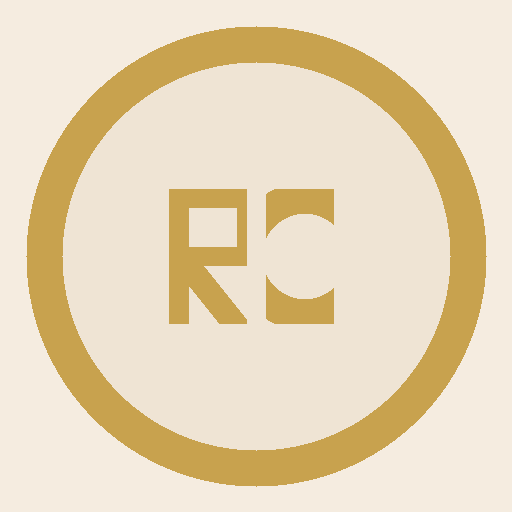
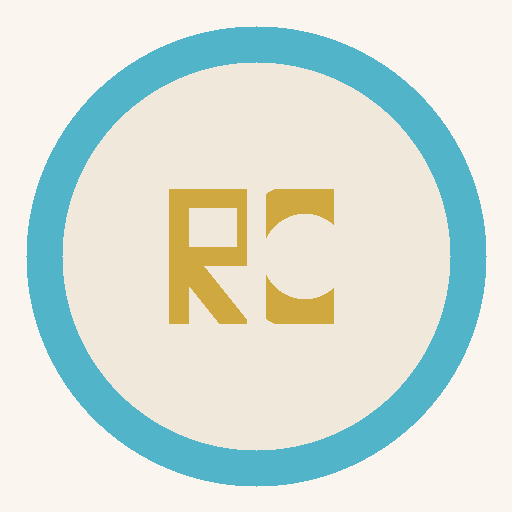
Retheme to Admont Abbey palette — sky blue, teal, gold, warm marble

Changed region(s): [[0.0312, 0.0312, 0.9688, 0.9688]]

diff --git a/index.html b/index.html
@@ -3,7 +3,7 @@
 <head>
 <meta charset="UTF-8">
 <meta name="viewport" content="width=device-width, initial-scale=1.0, maximum-scale=1.0, user-scalable=no">
-<meta name="theme-color" content="#f5ece0">
+<meta name="theme-color" content="#faf5ee">
 <meta name="apple-mobile-web-app-capable" content="yes">
 <meta name="apple-mobile-web-app-status-bar-style" content="default">
 <meta name="apple-mobile-web-app-title" content="Chariots">
@@ -19,39 +19,43 @@ body{
   font-family:'Inter',sans-serif;
   min-height:100vh;min-height:100dvh;
   overflow-x:hidden;
-  background:#f5ece0;
-  color:#3a2e20;
+  background:#faf5ee;
+  color:#3a3028;
 }
 input,button,textarea,select{font-family:inherit;font-size:inherit;border:none;outline:none;background:none}
 button{cursor:pointer}
 a{text-decoration:none;color:inherit}
 
-/* ===== CSS VARIABLES ===== */
+/* ===== CSS VARIABLES — Admont Abbey Palette ===== */
 :root{
-  --bg:#f5ece0;
-  --bg-warm:#efe4d4;
-  --card:rgba(255,255,255,0.88);
-  --card-border:rgba(180,150,100,0.15);
-  --card-shadow:0 2px 12px rgba(120,90,50,0.08);
-  --input-bg:rgba(255,255,255,0.92);
-  --text:#3a2e20;
-  --text-dim:#8a7a64;
-  --text-bright:#1a1208;
-  --gold:#c8a24e;
-  --gold-soft:rgba(200,162,78,0.15);
-  --gold-glow:rgba(200,162,78,0.25);
+  --bg:#faf5ee;
+  --bg-warm:#f0e8da;
+  --card:rgba(255,253,248,0.92);
+  --card-border:rgba(180,160,120,0.14);
+  --card-shadow:0 2px 14px rgba(100,80,50,0.07);
+  --input-bg:rgba(255,255,252,0.95);
+  --text:#3a3028;
+  --text-dim:#8a7e6a;
+  --text-bright:#1a1610;
+  --gold:#d0a840;
+  --gold-soft:rgba(208,168,64,0.14);
+  --gold-glow:rgba(208,168,64,0.25);
+  --sky:#52b4c8;
+  --sky-soft:rgba(82,180,200,0.12);
+  --sky-deep:#3a98b0;
+  --teal:#4a8a7a;
+  --teal-soft:rgba(74,138,122,0.12);
+  --rose:#c89090;
+  --rose-soft:rgba(200,144,144,0.10);
   --terracotta:#c47040;
-  --terracotta-soft:rgba(196,112,64,0.12);
-  --green:#4a8a52;
-  --green-soft:rgba(74,138,82,0.12);
-  --red:#b84a3a;
-  --red-soft:rgba(184,74,58,0.10);
+  --terracotta-soft:rgba(196,112,64,0.10);
+  --marble:#e8ddd0;
   --radius:14px;
   --radius-sm:8px;
-  --nav-bg:rgba(245,236,224,0.95);
-  --nav-border:rgba(180,150,100,0.12);
-  --modal-bg:rgba(245,236,224,0.97);
-  --toast-bg:rgba(255,255,255,0.95);
+  --nav-bg:rgba(250,245,238,0.96);
+  --nav-border:rgba(180,160,120,0.10);
+  --modal-bg:rgba(250,245,238,0.97);
+  --toast-bg:rgba(255,253,248,0.96);
 }
 
 /* ===== LAYOUT ===== */
@@ -71,7 +75,7 @@ a{text-decoration:none;color:inherit}
   font-family:'Playfair Display',serif;font-size:1.5rem;font-weight:700;
   color:var(--text-bright);letter-spacing:-0.5px;
 }
-.app-title span{color:var(--gold)}
+.app-title span{color:var(--sky)}
 .header-month{
   font-size:.78rem;color:var(--text-dim);margin-top:2px;
 }
@@ -80,11 +84,11 @@ a{text-decoration:none;color:inherit}
 }
 .month-btn{
   width:30px;height:30px;border-radius:50%;
-  background:var(--gold-soft);color:var(--gold);
+  background:var(--sky-soft);color:var(--sky);
   display:flex;align-items:center;justify-content:center;
   font-size:.85rem;font-weight:700;
 }
-.month-btn:active{background:var(--gold-glow)}
+.month-btn:active{background:rgba(82,180,200,0.25)}
 
 /* ===== SUMMARY CARDS ===== */
 .summary{
@@ -134,7 +138,7 @@ a{text-decoration:none;color:inherit}
   padding:6px 4px;border-radius:6px;color:var(--text-dim);
   transition:all .2s;
 }
-.avg-tab.active{background:var(--card);color:var(--gold);box-shadow:0 1px 4px rgba(0,0,0,0.06)}
+.avg-tab.active{background:var(--card);color:var(--sky-deep);box-shadow:0 1px 4px rgba(0,0,0,0.06)}
 .avg-grid{display:grid;grid-template-columns:1fr 1fr;gap:8px}
 .avg-card{
   background:var(--card);border:1px solid var(--card-border);
@@ -169,7 +173,7 @@ a{text-decoration:none;color:inherit}
   white-space:nowrap;background:var(--bg-warm);color:var(--text-dim);
   border:1px solid transparent;transition:all .2s;flex-shrink:0;
 }
-.tx-filter.active{background:var(--gold-soft);color:var(--gold);border-color:var(--gold-glow)}
+.tx-filter.active{background:var(--sky-soft);color:var(--sky-deep);border-color:rgba(82,180,200,0.3)}
 .tx-date-group{margin-bottom:12px}
 .tx-date-label{font-size:.65rem;font-weight:600;color:var(--text-dim);text-transform:uppercase;letter-spacing:.5px;margin-bottom:6px;padding-left:2px}
 .tx-item{
@@ -207,13 +211,13 @@ a{text-decoration:none;color:inherit}
   width:36px;height:20px;border-radius:10px;
   background:var(--bg-warm);position:relative;transition:background .2s;flex-shrink:0;
 }
-.rec-toggle.on{background:var(--green-soft);border:1px solid var(--green)}
+.rec-toggle.on{background:var(--teal-soft);border:1px solid var(--teal)}
 .rec-toggle::after{
   content:'';position:absolute;top:2px;left:2px;
   width:16px;height:16px;border-radius:50%;
   background:var(--text-dim);transition:all .2s;
 }
-.rec-toggle.on::after{left:18px;background:var(--green)}
+.rec-toggle.on::after{left:18px;background:var(--teal)}
 .rec-del{font-size:.7rem;color:var(--red);padding:4px 8px;font-weight:600}
 
 /* ===== INSIGHTS TAB ===== */
@@ -225,8 +229,8 @@ a{text-decoration:none;color:inherit}
 .trend-bars{display:flex;align-items:flex-end;gap:4px;height:120px;padding-top:10px}
 .trend-bar-col{flex:1;display:flex;flex-direction:column;align-items:center;gap:2px}
 .trend-bar{width:100%;border-radius:3px 3px 0 0;min-height:2px;transition:height .4s}
-.trend-bar.income-bar{background:var(--gold)}
-.trend-bar.expense-bar{background:var(--terracotta)}
+.trend-bar.income-bar{background:var(--sky)}
+.trend-bar.expense-bar{background:var(--gold)}
 .trend-label{font-size:.55rem;color:var(--text-dim);font-weight:500}
 .top-cats{margin-bottom:16px}
 .top-cat-item{
@@ -244,8 +248,8 @@ a{text-decoration:none;color:inherit}
 .comp-row{display:flex;justify-content:space-between;align-items:center;padding:6px 0}
 .comp-label{font-size:.75rem;color:var(--text)}
 .comp-value{font-size:.75rem;font-weight:700}
-.comp-value.up{color:var(--terracotta)}
-.comp-value.down{color:var(--gold)}
+.comp-value.up{color:var(--rose)}
+.comp-value.down{color:var(--teal)}
 .comp-value.neutral{color:var(--text)}
 
 /* ===== SETTINGS ===== */
@@ -254,7 +258,7 @@ a{text-decoration:none;color:inherit}
   border-radius:var(--radius);padding:14px;box-shadow:var(--card-shadow);
   margin-bottom:12px;
 }
-.setting-title{font-size:.72rem;font-weight:700;color:var(--gold);text-transform:uppercase;letter-spacing:.6px;margin-bottom:10px}
+.setting-title{font-size:.72rem;font-weight:700;color:var(--sky-deep);text-transform:uppercase;letter-spacing:.6px;margin-bottom:10px}
 .setting-row{padding:8px 0;border-bottom:1px solid var(--card-border)}
 .setting-row:last-child{border-bottom:none}
 .setting-label{font-size:.78rem;font-weight:500;color:var(--text)}
@@ -269,8 +273,8 @@ a{text-decoration:none;color:inherit}
   padding:8px 16px;border-radius:var(--radius-sm);font-size:.75rem;
   font-weight:600;transition:all .15s;
 }
-.btn-gold{background:var(--gold);color:#fff}
-.btn-gold:active{background:#b0922a}
+.btn-gold{background:var(--sky);color:#fff}
+.btn-gold:active{background:var(--sky-deep)}
 .btn-outline{border:1px solid var(--card-border);color:var(--text)}
 .btn-danger{background:var(--red-soft);color:var(--red)}
 
@@ -289,17 +293,17 @@ a{text-decoration:none;color:inherit}
   font-size:.58rem;font-weight:600;color:var(--text-dim);
   padding:4px 12px;transition:color .2s;
 }
-.nav-item.active{color:var(--gold)}
+.nav-item.active{color:var(--sky)}
 .nav-icon{font-size:1.2rem}
 
 /* ===== FAB (floating add button) ===== */
 .fab{
   position:fixed;bottom:72px;right:20px;
   width:52px;height:52px;border-radius:50%;
-  background:linear-gradient(135deg,var(--gold),var(--terracotta));
+  background:linear-gradient(135deg,var(--sky),var(--teal));
   color:#fff;font-size:1.5rem;font-weight:300;
   display:flex;align-items:center;justify-content:center;
-  box-shadow:0 4px 16px rgba(200,162,78,0.35);
+  box-shadow:0 4px 16px rgba(82,180,200,0.35);
   z-index:101;transition:transform .15s;
 }
 .fab:active{transform:scale(0.92)}
@@ -341,8 +345,8 @@ a{text-decoration:none;color:inherit}
   padding:6px 14px;font-size:.72rem;font-weight:600;
   background:var(--bg-warm);color:var(--text-dim);transition:all .15s;
 }
-.type-btn.active-expense{background:var(--terracotta-soft);color:var(--terracotta)}
-.type-btn.active-income{background:var(--gold-soft);color:var(--gold)}
+.type-btn.active-expense{background:var(--gold-soft);color:var(--gold)}
+.type-btn.active-income{background:var(--sky-soft);color:var(--sky-deep)}
 .cat-picker{display:flex;gap:5px;flex-wrap:wrap}
 .cat-chip{
   font-size:.65rem;font-weight:600;padding:5px 10px;border-radius:12px;
@@ -400,8 +404,8 @@ a{text-decoration:none;color:inherit}
 .inv-add-input::placeholder{color:var(--text-dim)}
 .bloom-link{
   display:block;text-align:center;margin-top:12px;
-  font-size:.72rem;color:var(--gold);font-weight:600;
-  padding:10px;background:var(--gold-soft);border-radius:var(--radius-sm);
+  font-size:.72rem;color:var(--sky-deep);font-weight:600;
+  padding:10px;background:var(--sky-soft);border-radius:var(--radius-sm);
 }
 
 /* ===== VIEWS ===== */
@@ -453,7 +457,7 @@ a{text-decoration:none;color:inherit}
     </div>
     <div id="invSummary"></div>
     <div id="invHistory"></div>
-    <a class="bloom-link" href="../Bloom/index.html" target="_blank">Open Bloom Portfolio</a>
+    <a class="bloom-link" href="../Bloom/index.html" target="_blank">Open Bloom Portfolio \u2192</a>
   </div>
 
   <!-- ===== INSIGHTS VIEW ===== -->
@@ -553,15 +557,15 @@ const MONTHS = ['January','February','March','April','May','June','July','August
 const MONTHS_SHORT = ['Jan','Feb','Mar','Apr','May','Jun','Jul','Aug','Sep','Oct','Nov','Dec'];
 
 const CATEGORIES = {
-  food:           {label:'Food',          color:'#d97756', icon:'\u{1F354}'},
-  transport:      {label:'Transport',     color:'#5a8fd0', icon:'\u{1F697}'},
-  bills:          {label:'Bills',         color:'#9070c0', icon:'\u{1F4CB}'},
-  subscriptions:  {label:'Subscriptions', color:'#c060a0', icon:'\u{1F4F1}'},
-  shopping:       {label:'Shopping',      color:'#e0a030', icon:'\u{1F6CD}'},
-  health:         {label:'Health',        color:'#50a880', icon:'\u{1FA7A}'},
-  entertainment:  {label:'Entertainment', color:'#d06070', icon:'\u{1F3AC}'},
-  income:         {label:'Income',        color:'#4a8a52', icon:'\u{1F4B0}'},
-  other:          {label:'Other',         color:'#8a7a64', icon:'\u{1F4CC}'}
+  food:           {label:'Food',          color:'#c8884a', icon:'\u{1F354}'},
+  transport:      {label:'Transport',     color:'#52b4c8', icon:'\u{1F697}'},
+  bills:          {label:'Bills',         color:'#8878b0', icon:'\u{1F4CB}'},
+  subscriptions:  {label:'Subscriptions', color:'#c08898', icon:'\u{1F4F1}'},
+  shopping:       {label:'Shopping',      color:'#d0a840', icon:'\u{1F6CD}'},
+  health:         {label:'Health',        color:'#4a8a7a', icon:'\u{1FA7A}'},
+  entertainment:  {label:'Entertainment', color:'#c89090', icon:'\u{1F3AC}'},
+  income:         {label:'Income',        color:'#5aa088', icon:'\u{1F4B0}'},
+  other:          {label:'Other',         color:'#9a8e78', icon:'\u{1F4CC}'}
 };
 
 // Auto-categorization keywords
@@ -1180,8 +1184,8 @@ function renderTrendChart() {
     <div class="trend-chart">
       <div class="cat-title" style="margin-bottom:8px">Last 6 Months</div>
       <div style="display:flex;gap:10px;margin-bottom:6px">
-        <span style="font-size:.6rem;color:var(--gold)">\u25A0 Income</span>
-        <span style="font-size:.6rem;color:var(--terracotta)">\u25A0 Spent</span>
+        <span style="font-size:.6rem;color:var(--sky)">\u25A0 Income</span>
+        <span style="font-size:.6rem;color:var(--gold)">\u25A0 Spent</span>
       </div>
       <div class="trend-bars">${barsHTML}</div>
     </div>`;
@@ -1255,7 +1259,7 @@ function renderWeekdaySpending() {
     html += `<div style="display:flex;align-items:center;gap:8px;margin-bottom:4px">
       <span style="font-size:.68rem;width:28px;color:var(--text-dim);font-weight:600">${dayNames[i]}</span>
       <div style="flex:1;height:6px;background:var(--bg-warm);border-radius:3px;overflow:hidden">
-        <div style="height:100%;width:${pct}%;background:var(--gold);border-radius:3px"></div>
+        <div style="height:100%;width:${pct}%;background:var(--sky);border-radius:3px"></div>
       </div>
       <span style="font-size:.65rem;width:50px;text-align:right;color:var(--text-dim)">${fmt(byDay[i])}</span>
     </div>`;

diff --git a/service-worker.js b/service-worker.js
@@ -1,4 +1,4 @@
-const CACHE_NAME = 'chariots-v1';
+const CACHE_NAME = 'chariots-v2';
 const ASSETS = [
   './',
   './index.html',
